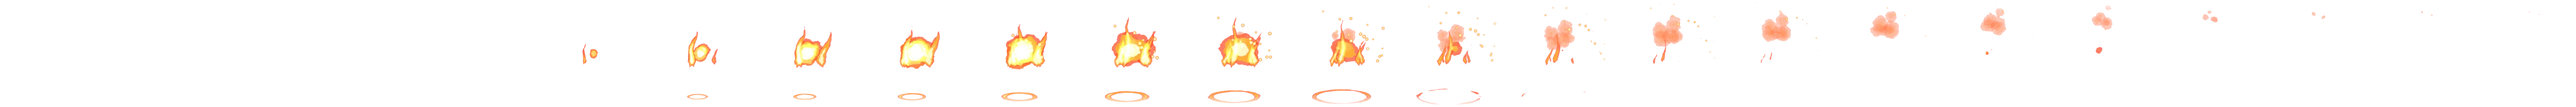
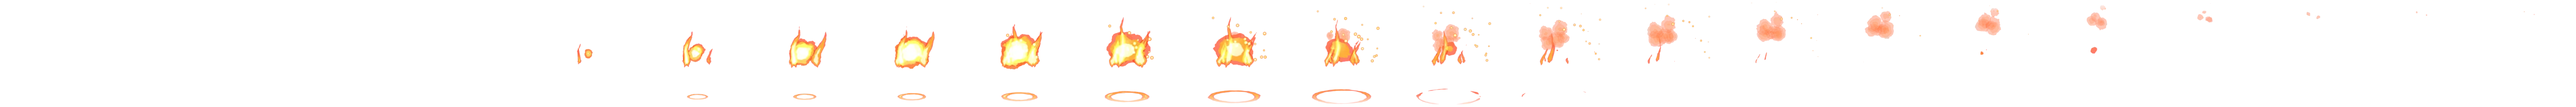
No theo he: dua tam no ve giua than dich

diff --git a/index.html b/index.html
@@ -4,7 +4,7 @@
   <meta charset="UTF-8">
   <meta name="viewport" content="width=device-width, initial-scale=1.0, viewport-fit=cover">
   <title>Hiệp Khách Giang Hồ</title>
-  <link rel="stylesheet" href="game/style.css?v=2611170539">
+  <link rel="stylesheet" href="game/style.css?v=2611170653">
   <!-- phông chữ bút lông cho màn kết trận, tên tuyệt chiêu (có mạng mới tải được; không có thì dùng phông sẵn có) -->
   <link rel="stylesheet" href="https://fonts.googleapis.com/css2?family=Pattaya&display=swap">
 </head>
@@ -23,27 +23,27 @@
 
   <div id="toast"></div>
 
-  <script src="game/data.js?v=2611170539"></script>
-  <script src="game/chibi_quai.js?v=2611170539"></script>
-  <script src="game/icons.js?v=2611170539"></script>
-  <script src="game/avatars.js?v=2611170539"></script>
-  <script src="game/effects.js?v=2611170539"></script>
-  <script src="game/audio.js?v=2611170539"></script>
-  <script src="game/thap.js?v=2611170539"></script>
-  <script src="game/ban_do.js?v=2611170539"></script>
-  <script src="game/tu_dong.js?v=2611170539"></script>
-  <script src="game/san_dau.js?v=2611170539"></script>
-  <script src="game/mon_phai.js?v=2611170539"></script>
-  <script src="game/truy_na.js?v=2611170539"></script>
-  <script src="game/thi_luyen.js?v=2611170539"></script>
-  <script src="game/the_gioi.js?v=2611170539"></script>
-  <script src="game/trang_chu.js?v=2611170539"></script>
-  <script src="game/tran_doi.js?v=2611170539"></script>
-  <script src="game/ai_giang_ho.js?v=2611170539"></script>
-  <script src="game/tang_cap.js?v=2611170539"></script>
-  <script src="game/trang_bi_hk.js?v=2611170539"></script>
-  <script src="game/tai_truoc.js?v=2611170539"></script>
-  <script src="game/tai_khoan.js?v=2611170539"></script>
-  <script src="game/engine.js?v=2611170539"></script>
+  <script src="game/data.js?v=2611170653"></script>
+  <script src="game/chibi_quai.js?v=2611170653"></script>
+  <script src="game/icons.js?v=2611170653"></script>
+  <script src="game/avatars.js?v=2611170653"></script>
+  <script src="game/effects.js?v=2611170653"></script>
+  <script src="game/audio.js?v=2611170653"></script>
+  <script src="game/thap.js?v=2611170653"></script>
+  <script src="game/ban_do.js?v=2611170653"></script>
+  <script src="game/tu_dong.js?v=2611170653"></script>
+  <script src="game/san_dau.js?v=2611170653"></script>
+  <script src="game/mon_phai.js?v=2611170653"></script>
+  <script src="game/truy_na.js?v=2611170653"></script>
+  <script src="game/thi_luyen.js?v=2611170653"></script>
+  <script src="game/the_gioi.js?v=2611170653"></script>
+  <script src="game/trang_chu.js?v=2611170653"></script>
+  <script src="game/tran_doi.js?v=2611170653"></script>
+  <script src="game/ai_giang_ho.js?v=2611170653"></script>
+  <script src="game/tang_cap.js?v=2611170653"></script>
+  <script src="game/trang_bi_hk.js?v=2611170653"></script>
+  <script src="game/tai_truoc.js?v=2611170653"></script>
+  <script src="game/tai_khoan.js?v=2611170653"></script>
+  <script src="game/engine.js?v=2611170653"></script>
 </body>
 </html>

diff --git a/thu_no_he.html b/thu_no_he.html
@@ -71,6 +71,9 @@
     return u;
   });
   var dich = units.slice(1);
+  // tâm thân theo bề ngang ảnh gốc (đo phần giữa người, ảnh quay phải); địch bị lật nên lấy 1 - x
+  var THAN = { hac_long: 0.429, tu_la: 0.503, gioi_vong: 0.506, doan_dien_khanh: 0.479 };
+  units.forEach(function (u, i) { u.dataset.than = DS[i].ta ? THAN[DS[i].img] : 1 - THAN[DS[i].img]; });
 
   function no(u, he) {
     var r = u.getBoundingClientRect(), s = san.getBoundingClientRect();
@@ -78,7 +81,7 @@
     var box = document.createElement('div');
     box.className = 'no';
     box.style.width = box.style.height = size + 'px';
-    box.style.left = (r.left - s.left + r.width / 2) + 'px';
+    box.style.left = (r.left - s.left + r.width * (+u.dataset.than || 0.5)) + 'px';
     box.style.top = (r.top - s.top + r.height * 0.55) + 'px';
     var im = document.createElement('img');
     im.src = ROOT + 'game/img/blender/fx_he_' + he + '.webp';
